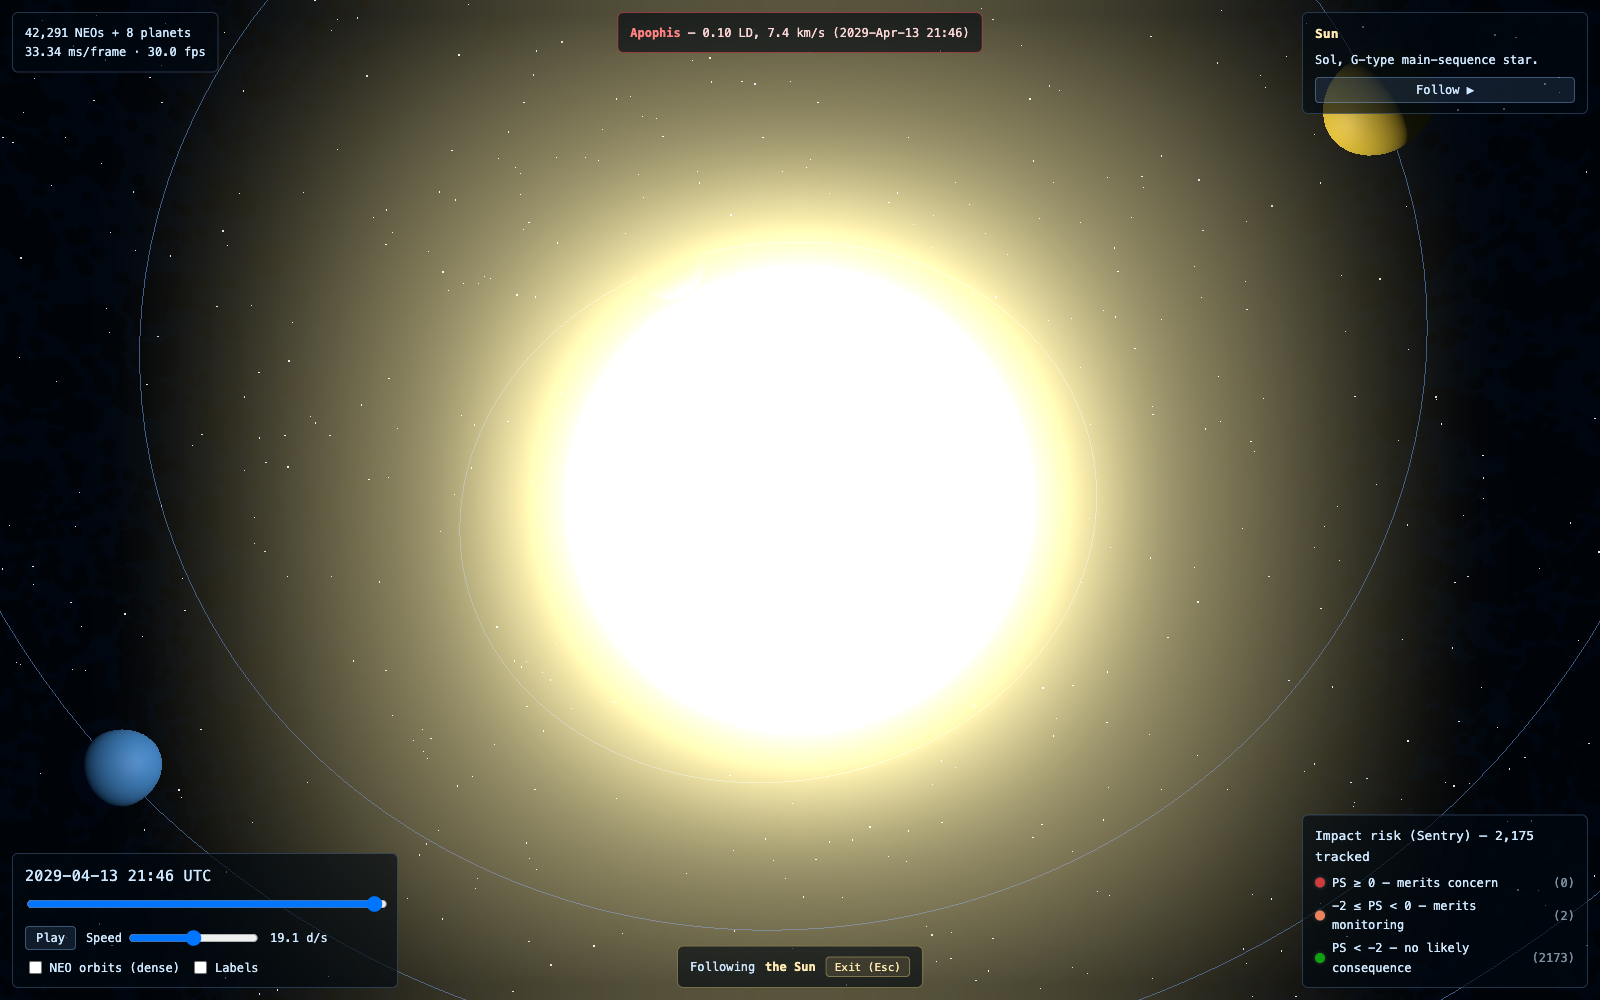
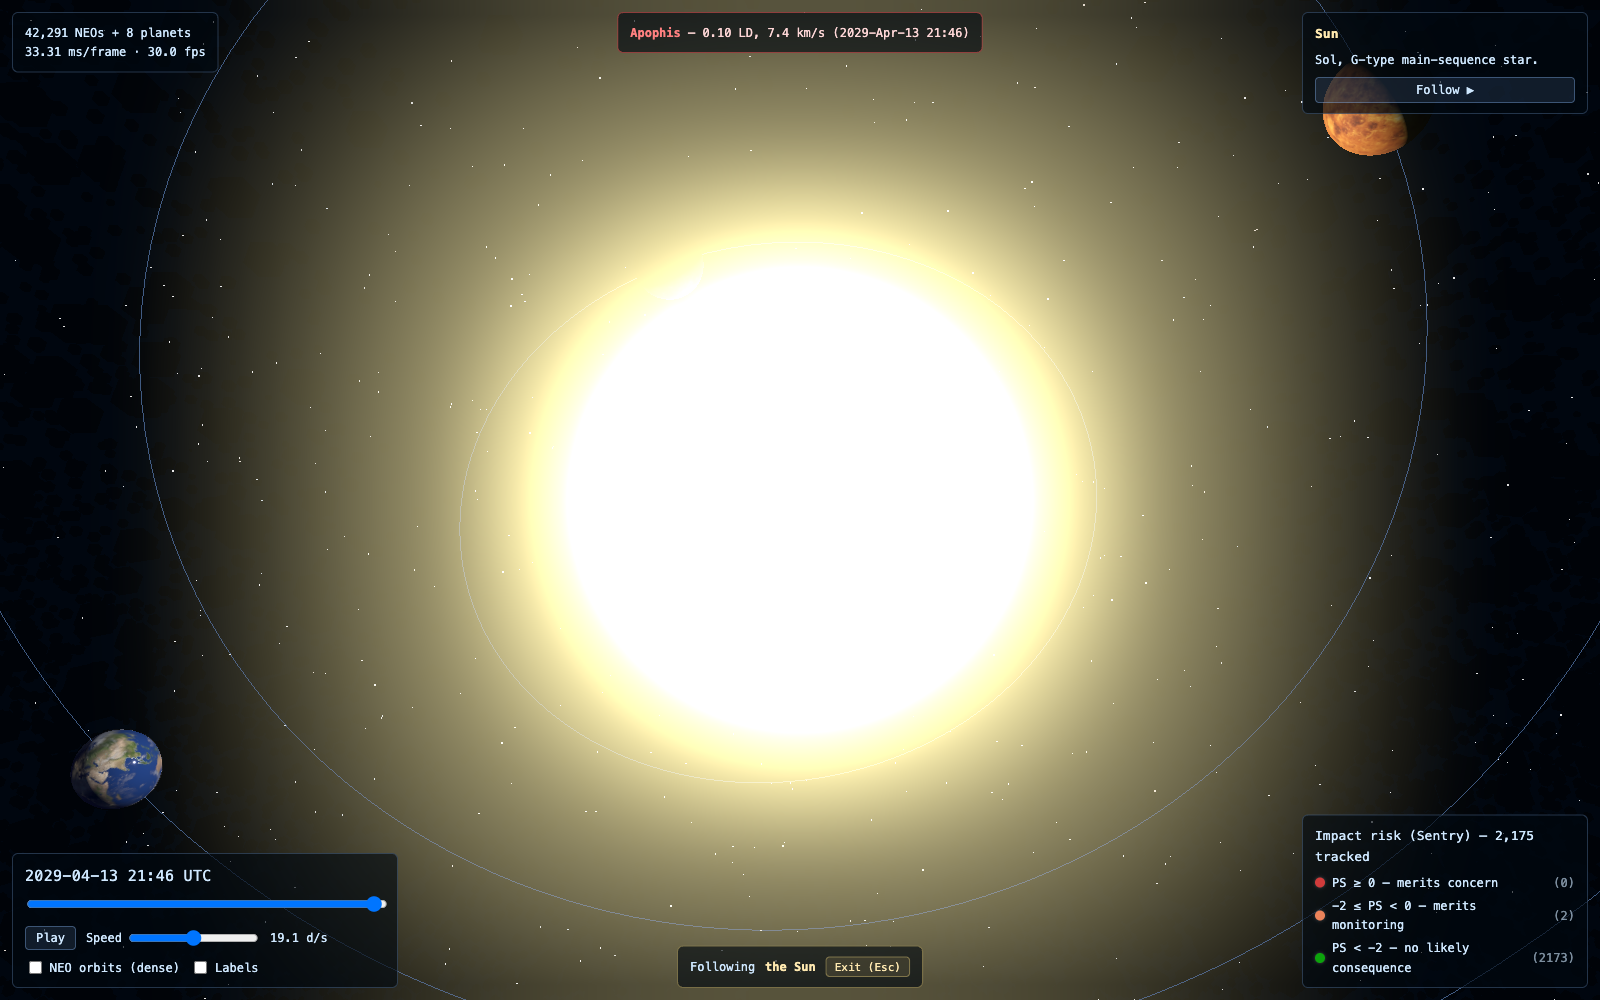
Show textures on the repo's main page
Refreshed the README's hero gallery with the current textured state
(the previous set predated this pass -- flat-colored spheres) and
added a dedicated Textures section with Earth/Saturn follow-cam
close-ups, cross-linked from the hero table and Attribution.

Changed region(s): [[0.0312, 0.713, 0.125, 0.806], [0.8125, 0.093, 0.875, 0.155]]

diff --git a/README.md b/README.md
@@ -12,10 +12,12 @@ Built with Vite + TypeScript + three.js, tested with vitest.
 
 |  |  |
 |---|---|
-| ![Wide view: Sun, planet orbit rings, and a close approach flashing red in the banner](docs/screenshots/overview.png) | ![Zoomed into the inner solar system: Mercury through Jupiter, NEO orbit lines, ecliptic-dimmed haze](docs/screenshots/inner-system.png) |
+| ![Wide view: Sun, textured planet orbit rings, and a close approach flashing red in the banner](docs/screenshots/overview.png) | ![Zoomed into the inner solar system: textured Mercury through Jupiter, NEO orbit lines, ecliptic-dimmed haze](docs/screenshots/inner-system.png) |
 | Default god's-eye view. The red banner is a live close-approach alert (99942 Apophis' 2029 flyby). | Zoomed in with NEO orbit lines and planet labels on — the swarm thins out visibly away from the ecliptic plane. |
-| ![Inspector panel open on the Sun, next to the Sentry risk legend and all four inner planets](docs/screenshots/inspector-legend.png) | ![Follow cam locked onto the Sun in dramatic close-up, bloom filling the frame](docs/screenshots/follow-sun.png) |
+| ![Inspector panel open on the Sun, next to the Sentry risk legend and textured Mercury/Venus/Earth/Mars](docs/screenshots/inspector-legend.png) | ![Follow cam locked onto the Sun in dramatic close-up, bloom filling the frame, textured Earth and Mars visible nearby](docs/screenshots/follow-sun.png) |
 | Click any body for its inspector panel; the Sentry risk legend sits bottom-right. | Follow cam locked onto the Sun — selective bloom hits hard up close. |
+
+See [Textures](#textures) below for close-ups of Earth and Saturn.
 
 ## Quick start
 
@@ -57,6 +59,20 @@ npm run preview         # serve the production build locally
   list render larger and tinted by Palermo Scale risk tier (see the legend,
   bottom-right); the inspector shows Palermo scale, impact probability, and
   potential-impact count for any of them.
+
+## Textures
+
+The eight planets use real 2K surface maps (see [Attribution](#attribution)),
+sRGB-correct color space, a Sun point light with a real day/night terminator,
+Earth's night-side city lights, correctly-radial Saturn ring UVs (`RingGeometry`
+defaults to a tangential UV mapping, which smears a radial ring texture into
+nonsense), and real axial tilt/rotation per planet. Follow-cam lazily swaps in
+a sharper 4K map for the followed planet only, disposed on exit.
+
+| Earth | Saturn |
+|---|---|
+| ![Earth in follow-cam, showing the day/night terminator, night-side city lights, and clouds](docs/screenshots/textures/earth-followcam.png) | ![Saturn in follow-cam, showing correctly radial ring banding](docs/screenshots/textures/saturn-followcam.png) |
+| Terminator, night-side city lights, clouds | Correct radial ring banding, not tangential smearing |
 
 ## Propagation math
 
